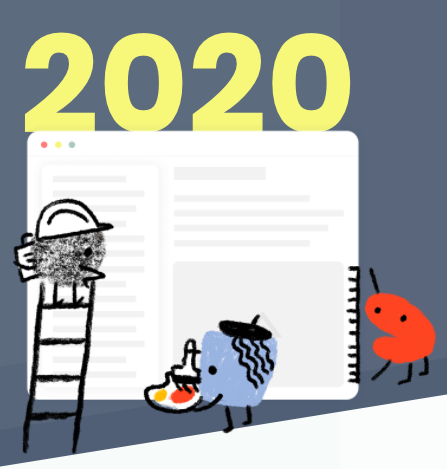
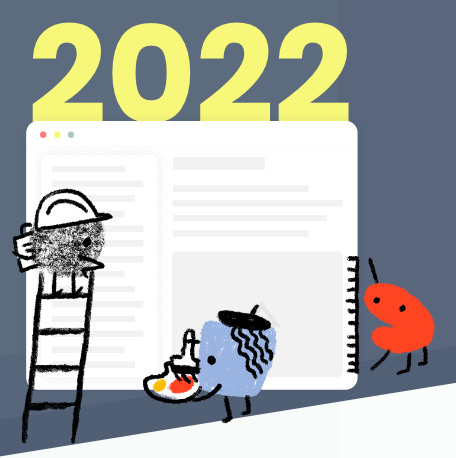
feat: update almanac results

diff --git a/slides/why-http-archive.md b/slides/why-http-archive.md
@@ -1,12 +1,12 @@
 ## Wie barrierefrei ist das Web?
 
-Auszug aus [Auswertung des HTTP Archive für 2020](https://almanac.httparchive.org/en/2020/accessibility) (7.5 Mio Webseiten):
+Auszug aus [Auswertung des HTTP Archive für 2022](https://almanac.httparchive.org/en/2022/accessibility) (8.5 Mio Webseiten):
 
 ![Almanac Logo](media/http-archive.png)
 
 <!-- .element class="custom-right" -->
 
 - **3/4** der Seiten haben **ungenügenden Farbkontrast**.
-- **1/3** der Seiten versuchen, Zooming auf Mobile zu deaktivieren.
-- **1/2** der Seiten haben **Bilder ohne Alternativtexte**.
-- **3/4** der Seiten haben **Formularfelder ohne Labels**.
+- **1/4** der Seiten versucht, Zooming auf Mobile zu deaktivieren.
+- **1/2** der Seiten hat **Bilder ohne Alternativtexte**.
+- **2/3** der Seiten haben **Formularfelder ohne Labels**.
